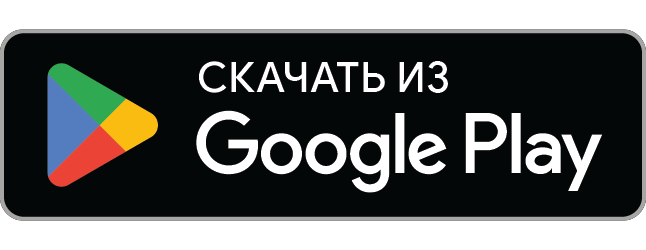
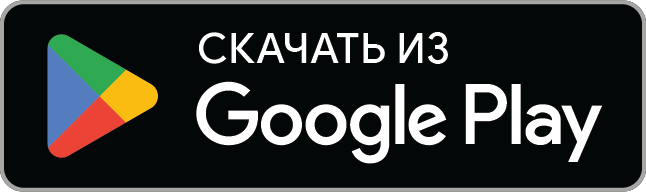
Give the store badges the buttons' height, and a Russian Microsoft badge
Four changes to the hero row, three of which turn out to be the same change.

**The badges are the height of the button beside them.** Not 44px any more, and
not a pixel value at all: the height is restated in the terms `.btn` declares
it in -- line box, padding, border -- because `.btn` takes its font size from a
`clamp()` with a `vw` term and therefore grows with the window. A fixed height
would have agreed with it at one width and nowhere else. Measured at 52.44px
against the button's 52.44px, at every width tried.

**The Google badge's transparent margin is cropped away.** The asset is 646x250
with the artwork occupying 564x168 of it, so at a given box height it drew about
a third shorter than the other two and looked it. Cropped to the alpha bounding
box, its art now fills the height it is given. The Russian one had the same
problem with different numbers -- 29px top and bottom, none at the sides -- and
comes out at a near-identical aspect ratio, so the two are consistent for the
first time.

**A Russian Microsoft badge**, from the same generator the English one came
from. The Apple and Google badges have had Russian artwork since they landed;
this one was still saying "Download from the Microsoft Store" on a page that
says everything else in Russian.

**The three badges wrap as a group.** They are one flex item now, so the row
takes them down together and only breaks them up badge by badge when the group
[…]

diff --git a/docs/assets/css/site.css b/docs/assets/css/site.css
@@ -298,6 +298,9 @@ a:hover { color: #FFC276; }
   max-width: 62rem;
   margin: 0 auto;
   padding: clamp(3.5rem, 9vw, 7rem) var(--pad) clamp(4rem, 10vw, 8rem);
+  /* So the rule between the buttons and the store badges can be asked about
+     the width it actually has, rather than about the window's. See `.cta-sep`. */
+  container-type: inline-size;
 }
 
 .eyebrow {
@@ -743,23 +746,69 @@ tbody tr:last-child td { border-bottom: 0; }
 /* The store buttons in the hero, after a rule.
    Separated because they answer a different question from the two beside them:
    those are "how does this work", these are "give it to me". */
+/* No margin of its own: the row's 0.75rem gap already stands on both sides of
+   it. The extra 0.35rem each side that used to be here cost 11px on a line
+   that turns out to have about 15px to spare in English, which is too fine a
+   margin to spend on air. */
 .cta-sep {
   width: 1px;
   align-self: stretch;
   background: var(--line);
-  margin: 0 0.35rem;
 }
+/* One flex item, so the three badges leave the buttons' line together.
+   `.cta` wraps this whole group first, and only when the group alone is wider
+   than the row does its own `flex-wrap` break it up badge by badge. Three
+   stores going down one at a time while the row still has space for two of
+   them reads as three unrelated things rather than one set. */
+.stores { display: flex; flex-wrap: wrap; gap: 0.75rem; align-items: center; }
 /* The vendors' badges are used as supplied and scaled by height only, which is
    what all three sets of brand rules ask for. Their aspect ratios differ, so
    fixing the height and letting width follow keeps every one of them correct
-   without a per-store size. */
+   without a per-store size.
+
+   The height is the button's beside them, restated rather than measured:
+   line box + padding + border, in the same units the button declares them in.
+   A fixed pixel height cannot work here, because `.btn` takes its font size
+   from a `clamp()` with a `vw` term and therefore grows with the window — so
+   the two would agree at one width and nowhere else. Each term below mirrors
+   one declaration: 1.65 is the inherited `line-height`, 1.4rem the two 0.7rem
+   paddings, 2px the two 1px borders. */
+.cta { --cta-h: calc(1.65em + 1.4rem + 2px); }
 .badge { display: inline-flex; align-items: center; }
-.badge img { height: 44px; width: auto; display: block; }
+.badge img { height: var(--cta-h); width: auto; display: block; }
 /* Not a link yet. Kept in place rather than hidden so the three read as a set,
    and dimmed so nobody clicks twice wondering why nothing happened. */
 .badge.soon { opacity: 0.4; cursor: default; filter: grayscale(1); }
-@media (max-width: 560px) {
-  /* A vertical rule between wrapped rows is a stray tick; the wrap is the
-     separation at this width. */
-  .cta-sep { display: none; }
+/* A vertical rule at the end of a line, with what it separates on the line
+   below, is a stray tick. So the rule shows only while everything is genuinely
+   on one line — and CSS cannot ask whether something wrapped, so the substitute
+   is to ask whether the row is wide enough to hold it all, measured in a
+   browser rather than guessed.
+
+   A *container* query, not a media query, because the window's width is not the
+   question: `.hero-inner` caps at 62rem, so past that point a wider window buys
+   the row nothing. Asking the container asks the thing that actually decides,
+   and keeps this correct by construction if that cap ever moves.
+
+   The widths are the row's own content and nothing else — two buttons, three
+   badges, five 0.75rem gaps and the rule itself — because a container query
+   measures the *content* box, inside the hero's padding. Russian needs 75px
+   more, which is how much wider its button pair is.
+
+   **As it stands neither threshold is reached**, so the rule is not currently
+   drawn in either language. The row needs 938px in English and 1013px in
+   Russian against the 912px `.hero-inner` leaves after its padding, which is
+   why the badges sit on their own line at every width. Three changes together
+   did that, all of them deliberate: badges raised from 44px to the buttons'
+   52.44px, the Google badge's transparent margin cropped away so its art fills
+   that height (it grew 41px wider), and the rule's own 0.35rem margins dropped.
+   Left in place rather than deleted because it is a threshold, not a decision —
+   shorten a label, drop a store, or widen the hero, and it comes back on its
+   own. */
+.cta-sep { display: none; }
+@container (min-width: 938px) {
+  html[lang="en"] .cta-sep { display: block; }
+}
+@container (min-width: 1013px) {
+  html[lang="ru"] .cta-sep { display: block; }
 }

diff --git a/docs/_layouts/default.html b/docs/_layouts/default.html
@@ -104,6 +104,7 @@
            `store_url` being empty is what greys the button out, so a link
            arrives by filling in one line of _data/strings.yml. -->
       <span class="cta-sep" role="separator" aria-orientation="vertical"></span>
+      <span class="stores">
       {% for st in s.hero.stores %}
         {% comment %}
           The vendors' own artwork, not a redrawing of it. Each of the three
@@ -128,6 +129,7 @@
       </span>
         {% endif %}
       {% endfor %}
+      </span>
     </div>
     <p class="hero-note">{{ s.hero.note | strip_newlines }}</p>
   </div>
